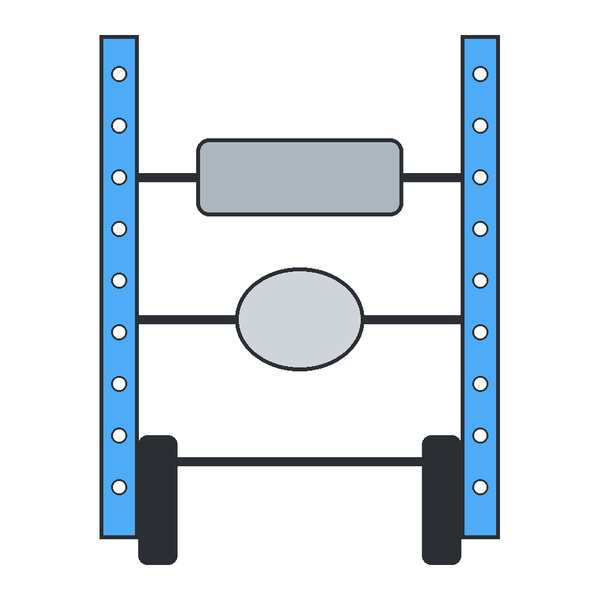
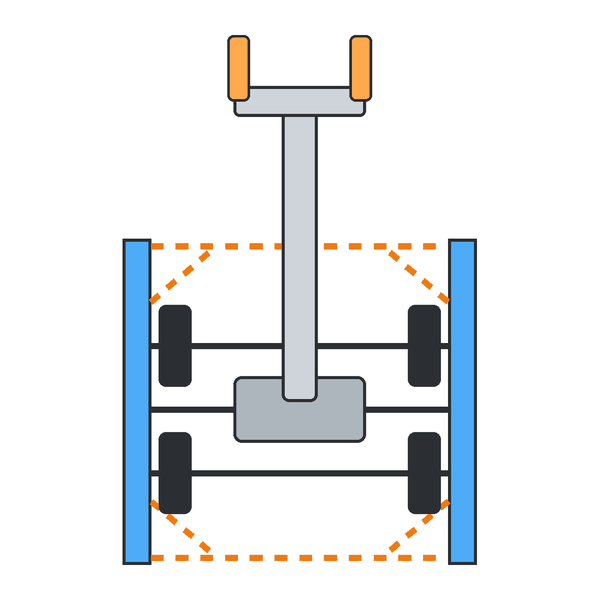
sandwich chassis image: top view, solid side plates, dotted corner bracing, arm with claw out the front

Changed region(s): [[0.15, 0.06, 0.84, 0.96], [0.54, 0.9, 0.6, 0.96], [0.42, 0.9, 0.48, 0.96]]

diff --git a/tools/diagrams.py b/tools/diagrams.py
@@ -2652,17 +2652,26 @@ def ladder_chassis():
 
 
 def sandwich_chassis():
+    """Top view: two solid side plates (seen edge-on), braced at the corners, with an arm reaching out the front."""
     im, d = canvas()
-    for x in (300, 860):  # tall side walls, seen from the front
-        d.rectangle((x - 30, 200, x + 30, 980), fill="#4dabf7", outline=EDGE, width=6)
-        for y in range(260, 960, 80):
-            d.ellipse((x - 12, y - 12, x + 12, y + 12), fill="white", outline=EDGE, width=3)
-    for y in (420, 640, 860):  # shafts held at both ends
-        d.line((330, y, 830, y), fill=DARK, width=14)
-    d.rounded_rectangle((420, 360, 740, 480), radius=20, fill="#adb5bd", outline=EDGE, width=6)  # mechanism
-    d.ellipse((480, 560, 680, 720), fill="#ced4da", outline=EDGE, width=6)  # gear
-    for x in (360, 800):
-        d.rounded_rectangle((x - 30, 820, x + 30, 1020), radius=14, fill=DARK)  # wheels inside the walls
+    L, R, T, B = 280, 920, 470, 1110          # wall positions and front/back ends
+    for x in (L, R):
+        d.rectangle((x - 28, T, x + 28, B), fill="#4dabf7", outline=EDGE, width=6)
+    for y, sy in ((T + 14, 1), (B - 14, -1)):  # corner bracing: dotted links tie the walls into a box
+        dashed(d, L + 28, y, R - 28, y, ORANGE, 12, 24)
+        for x, sx in ((L + 28, 1), (R - 28, -1)):
+            dashed(d, x, y + sy * 110, x + sx * 130, y, ORANGE, 12, 20)
+    for y in (680, 930):                       # axles held by both walls, wheels just inside
+        d.line((L + 28, y, R - 28, y), fill=DARK, width=12)
+        for x in (L + 75, R - 75):
+            d.rounded_rectangle((x - 32, y - 80, x + 32, y + 80), radius=14, fill=DARK)
+    d.rounded_rectangle((470, 740, 730, 870), radius=16, fill="#adb5bd", outline=EDGE, width=6)  # arm base / motor
+    d.line((L + 28, 805, 470, 805), fill=DARK, width=12)
+    d.line((730, 805, R - 28, 805), fill=DARK, width=12)
+    d.rounded_rectangle((565, 210, 635, 790), radius=14, fill="#ced4da", outline=EDGE, width=6)  # arm out the front
+    d.rounded_rectangle((470, 170, 730, 230), radius=12, fill="#ced4da", outline=EDGE, width=6)  # claw
+    for x in (480, 720):
+        d.rounded_rectangle((x - 22, 70, x + 22, 200), radius=12, fill="#ffa94d", outline=EDGE, width=5)
     return im
 
 
